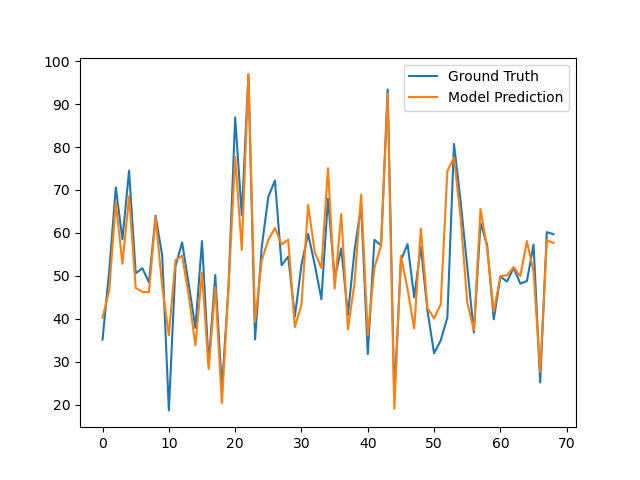
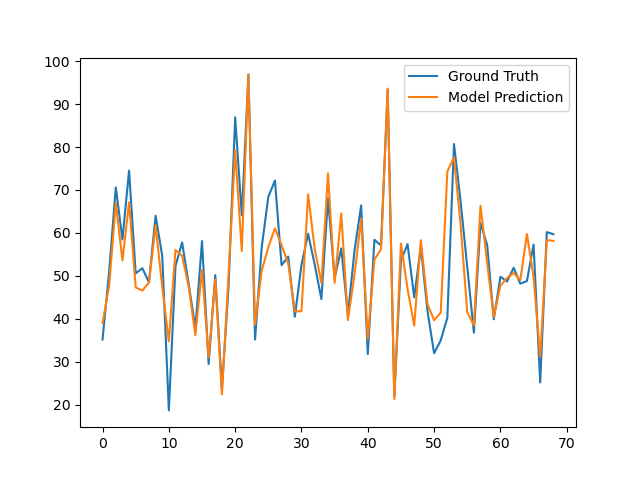
best model yet working on improving each one and adding another

diff --git a/scripts/lstm_deep_model_train.py b/scripts/lstm_deep_model_train.py
@@ -29,7 +29,7 @@ os.environ["KERAS_BACKEND"] = "tensorflow"
 ### CHANGE THESE BELOW FOR MESSING WITH MODEL
  
 h_s = 256   # {32, 64, 96, 128, 256}
-dropout = 0.25  # {0.05, 0.1, 0.2, 0.4, 0.4, 0.5}
+dropout = 0.4  # {0.05, 0.1, 0.2, 0.4, 0.4, 0.5}
 batch_size = 512 # paper said this didn't matter much. Dont change  
 epochs = 50   # Try not to go above 50 - it will stop when it starts to overfit
 lr_rate = 0.001   # (0.001, 3e-4, 5e-4)

diff --git a/scripts/lstm_model_train.py b/scripts/lstm_model_train.py
@@ -29,7 +29,7 @@ os.environ["KERAS_BACKEND"] = "tensorflow"
 ### CHANGE THESE BELOW FOR MESSING WITH MODEL
  
 h_s = 256   # {32, 64, 96, 128, 256}
-dropout = 0.25  # {0.05, 0.1, 0.2, 0.4, 0.4, 0.5}
+dropout = 0.4  # {0.05, 0.1, 0.2, 0.4, 0.4, 0.5}
 batch_size = 512 # paper said this didn't matter much. Dont change  
 epochs = 50   # Try not to go above 50 - it will stop when it starts to overfit
 lr_rate = 0.001   # (0.001, 3e-4, 5e-4)

diff --git a/scripts/model_train.py b/scripts/model_train.py
@@ -29,7 +29,7 @@ os.environ["KERAS_BACKEND"] = "tensorflow"
 ### CHANGE THESE BELOW FOR MESSING WITH MODEL
  
 h_s = 256   # {32, 64, 96, 128, 256}
-dropout = 0.25  # {0.05, 0.1, 0.2, 0.4, 0.4, 0.5}
+dropout = 0.4  # {0.05, 0.1, 0.2, 0.4, 0.4, 0.5}
 batch_size = 512 # paper said this didn't matter much. Dont change  
 epochs = 50   # Try not to go above 50 - it will stop when it starts to overfit
 lr_rate = 0.001   # (0.001, 3e-4, 5e-4)
